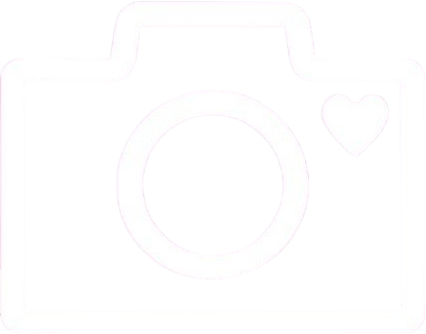
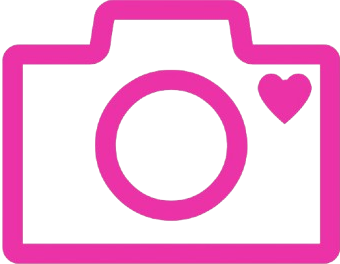
lipstick: style: estilizando pagina do adm

diff --git a/src/admComponents/UploadImage.jsx b/src/admComponents/UploadImage.jsx
@@ -2,6 +2,9 @@ import React, { useState } from 'react';
 import { storage, db } from '../firebase/firebase';
 import { ref, uploadBytes, getDownloadURL } from "firebase/storage";
 import { collection, addDoc } from "firebase/firestore";
+import uploadImage from '../rsc/uploarIcon.png'
+import confirmIcon from '../rsc/confimIcon.png'
+import '../css/UploadImage.css';
 
 const UploadImage = () => {
   const [image, setImage] = useState(null);
@@ -36,9 +39,12 @@ const UploadImage = () => {
   };
 
   return (
-    <div>
-      <input type="file" onChange={handleFileChange} />
-      <button onClick={handleUpload}>Upload</button>
+    <div id='upload-container'>
+      <label htmlFor='select-file' className="custom-file-label">
+        <img src={uploadImage} alt='Icone de Upload' id='upload-button'/>
+      </label>
+      <input type="file" onChange={handleFileChange} id='select-file'/>
+      <img onClick={handleUpload} src={confirmIcon} alt='Confirm button' id='confirm-button'/>
       {progress > 0 && <p>Progresso: {progress}%</p>}
     </div>
   );

diff --git a/src/css/UploadImage.css b/src/css/UploadImage.css
@@ -1,0 +1,61 @@
+#heade-container {
+  background-image: none;
+  background-color: white;
+}
+
+#select-file{
+  display: none;
+  color: blueviolet;
+}
+#custom-file-label {
+  background-image: url('../rsc/uploarIcon.png');
+  background-repeat: no-repeat;
+  background-position: left;
+  background-size: 1.3em;
+  padding-left: 1.3em;
+  width: 200px;
+}
+
+#upload-container {
+  display: flex;
+  justify-content: center;
+  padding-top: 60px;
+  gap: 200px;
+}
+
+#upload-button, #confirm-button{
+  width: 30px;
+  height: auto;
+}
+
+#album-title{
+  color: #eb32a7;
+  text-align: center;
+  padding: 80px 0;
+}
+
+#images-container {
+  width: 85vw;
+  margin-left: 5vw;
+  display: flex;
+  flex-wrap: wrap;
+  justify-content: center;
+  gap: 17px;
+}
+
+#info-container {
+  display: flex;
+  justify-content: start;
+  width: 250px;
+  color: #eb32a7;
+  gap: 45px;
+}
+
+#photo-card-data {
+  font-size: 22px;
+  padding-left: 60px;
+}
+
+.photo-card-delete{
+  width: 25px;
+}

diff --git a/src/admComponents/PhotoCard.jsx b/src/admComponents/PhotoCard.jsx
@@ -1,6 +1,7 @@
 import React from 'react';
 import { db } from '../firebase/firebase';
 import { doc, deleteDoc } from 'firebase/firestore';
+import deletIcon from '../rsc/deletIcon.png';
 
 const PhotoCard = ({ photo }) => {
   const handleDelete = async () => {
@@ -16,9 +17,11 @@ const PhotoCard = ({ photo }) => {
 
   return (
     <div id="photo-card">
-      <img src={photo.link} alt={photo.descricao} id='photo-card-image'/>
-      <p id='photo-card-data'>{photo.data}</p>
-      <button onClick={handleDelete} id='photo-card-delete'>Excluir Foto</button>
+      <img src={photo.link} alt={photo.descricao} className='photo-card-image'/>
+      <div id='info-container'>
+        <p id='photo-card-data'>{photo.data}</p>
+        <img src={deletIcon} alt='Botão de deletar' onClick={handleDelete} className='photo-card-delete' />
+      </div>
     </div>
   );
 };

diff --git a/src/pages/App.jsx b/src/pages/App.jsx
@@ -1,6 +1,6 @@
 import React from "react";
 import HeaderAdmComponent from "../admComponents/HeaderAdmComponent";
-import UploadImage from "../components/UploadImage";
+import UploadImage from "../admComponents/UploadImage";
 import GaleryContainer from "../admComponents/GaleryContainer";
 
 const App = () => {
@@ -8,8 +8,8 @@ const App = () => {
     <div>
       <HeaderAdmComponent/>
       <UploadImage />
+      <h1 id="album-title">Fotos da chiva</h1>
       <GaleryContainer />
-      <h1>Fotos da chiva</h1>
     </div>
   );
 };

diff --git a/src/admComponents/HeaderAdmComponent.jsx b/src/admComponents/HeaderAdmComponent.jsx
@@ -1,12 +1,15 @@
 import React from "react";
+import '../css/AdmHeader.css';
+import camIcont from '../rsc/camicon.png'
 
 const HeaderAdmComponent = () => {
 
   return (
-    <div id="header-container">
-      <div id="home-icon">
+    <div id="header-adm-container">
+      <div id="home-icon-container">
+        <img src={camIcont} alt="Icone de câmera" id="camicon"/>
       </div>
-      <h1>Editor</h1>
+      <h1 id="Adm-title">Editor</h1>
     </div>
   )
 };

diff --git a/src/admComponents/GaleryContainer.jsx b/src/admComponents/GaleryContainer.jsx
@@ -9,7 +9,7 @@ const { picsDb } = useContext(Context);
 	return(
 		<div id='images-container'>
 			{picsDb.map((photo) => (
-			<div key={photo.id} className='image-container'>
+			<div key={photo.id} className='photo-card'>
 					<PhotoCard id={photo.id} photo={photo} />
 			</div>
 			))}

diff --git a/src/css/AdmHeader.css b/src/css/AdmHeader.css
@@ -1,0 +1,20 @@
+#header-adm-container {
+  display: flex;
+  align-items:start;
+}
+
+#home-icon-container {
+  padding: 25px;
+  width: 30px;
+  height: 10px;
+}
+
+#camicon {
+  width: 60px;
+}
+
+#Adm-title {
+  color: #eb32a7;
+  padding-left: 40vw;
+  padding-top: 15px;
+}
